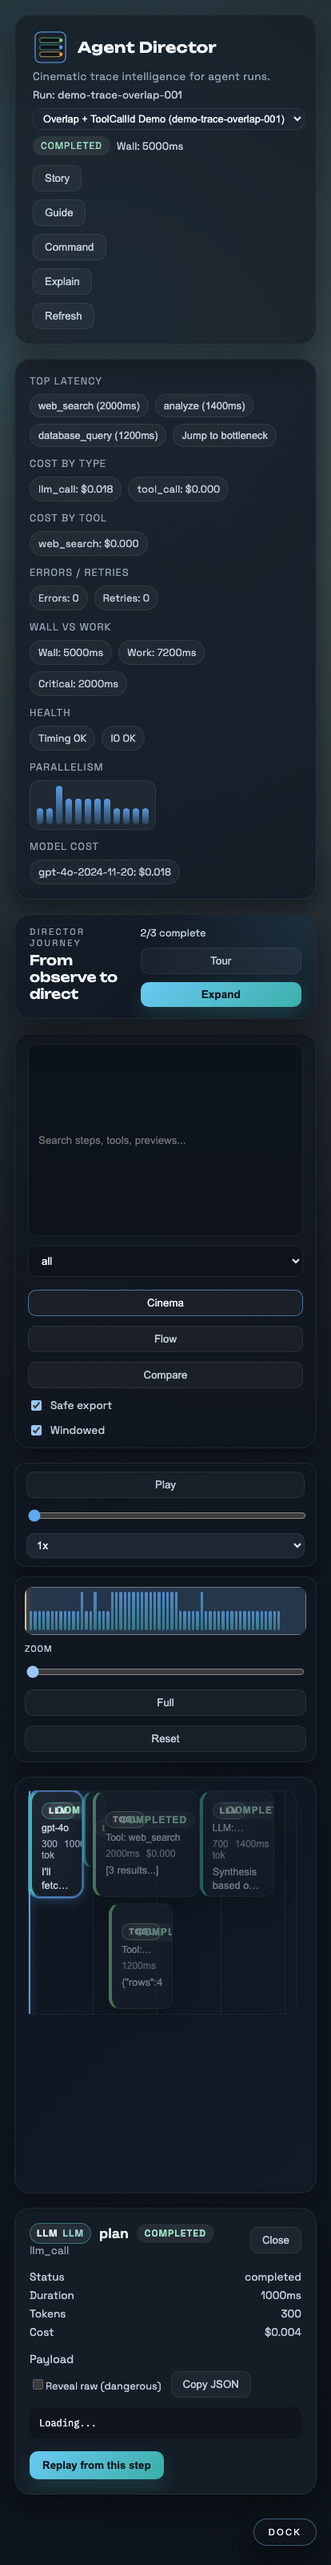
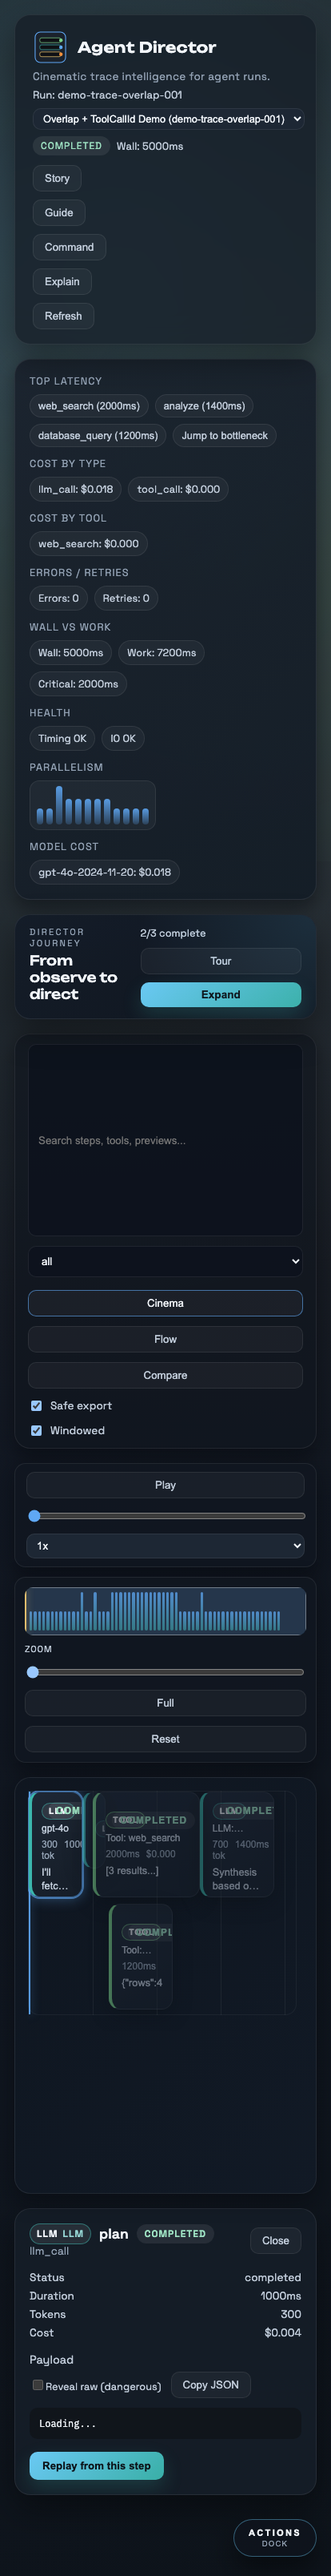
feat(ux): upgrade onboarding and explain overlays

diff --git a/ui/src/styles/main.css b/ui/src/styles/main.css
@@ -118,6 +118,7 @@ pre {
   border: 1px solid rgba(255, 255, 255, 0.12);
   box-shadow: 0 30px 80px rgba(0, 0, 0, 0.55);
   min-width: 320px;
+  width: min(520px, 90vw);
   text-align: center;
   overflow: hidden;
 }
@@ -134,6 +135,40 @@ pre {
   margin-bottom: 18px;
   color: var(--text-secondary);
   font-size: 0.95rem;
+}
+
+.intro-steps {
+  display: grid;
+  gap: 10px;
+  text-align: left;
+  margin-bottom: 18px;
+}
+
+.intro-step {
+  padding: 10px 12px;
+  border-radius: var(--radius-sm);
+  background: rgba(20, 30, 42, 0.6);
+  border: 1px solid rgba(111, 210, 255, 0.12);
+}
+
+.intro-step-label {
+  font-size: 0.75rem;
+  text-transform: uppercase;
+  letter-spacing: 0.2em;
+  color: var(--text-muted);
+  margin-bottom: 4px;
+}
+
+.intro-step-body {
+  font-size: 0.85rem;
+  color: var(--text-secondary);
+}
+
+.intro-actions {
+  display: flex;
+  justify-content: center;
+  gap: 12px;
+  flex-wrap: wrap;
 }
 
 .intro-grid {
@@ -1680,6 +1715,10 @@ pre {
   position: fixed;
   right: 24px;
   bottom: 24px;
+  display: flex;
+  flex-direction: column;
+  align-items: center;
+  gap: 2px;
   padding: 10px 18px;
   border-radius: 999px;
   border: 1px solid rgba(111, 210, 255, 0.4);
@@ -1692,6 +1731,16 @@ pre {
   box-shadow: 0 16px 32px rgba(0, 0, 0, 0.45);
   transition: transform var(--transition-fast), border-color var(--transition-fast), box-shadow var(--transition-fast);
   z-index: 40;
+}
+
+.quick-actions-toggle-label {
+  font-weight: 600;
+}
+
+.quick-actions-toggle-meta {
+  font-size: 0.6rem;
+  letter-spacing: 0.12em;
+  color: var(--text-muted);
 }
 
 .quick-actions-toggle:hover {
@@ -1885,6 +1934,41 @@ pre {
   color: var(--text-secondary);
 }
 
+.help-bubble::before {
+  content: '';
+  position: absolute;
+  width: 12px;
+  height: 12px;
+  background: rgba(16, 22, 32, 0.95);
+  border-left: 1px solid var(--border-strong);
+  border-top: 1px solid var(--border-strong);
+  transform: rotate(45deg);
+}
+
+.help-bubble[data-placement='left']::before {
+  right: -6px;
+  top: 50%;
+  transform: translateY(-50%) rotate(45deg);
+}
+
+.help-bubble[data-placement='right']::before {
+  left: -6px;
+  top: 50%;
+  transform: translateY(-50%) rotate(45deg);
+}
+
+.help-bubble[data-placement='top']::before {
+  bottom: -6px;
+  left: 50%;
+  transform: translateX(-50%) rotate(45deg);
+}
+
+.help-bubble[data-placement='bottom']::before {
+  top: -6px;
+  left: 50%;
+  transform: translateX(-50%) rotate(45deg);
+}
+
 .help-title {
   font-family: var(--font-display);
   font-size: 0.9rem;
@@ -1952,7 +2036,8 @@ pre {
 .playback-speed:focus-visible,
 .toggle input:focus-visible,
 .palette-input:focus-visible,
-.quick-action:focus-visible {
+.quick-action:focus-visible,
+.quick-actions-toggle:focus-visible {
   outline: 2px solid rgba(96, 168, 245, 0.8);
   outline-offset: 2px;
 }

diff --git a/ui/src/components/common/IntroOverlay.tsx b/ui/src/components/common/IntroOverlay.tsx
@@ -1,16 +1,22 @@
 import { useEffect } from 'react';
 
-const INTRO_MS = 1800;
+const INTRO_MS = 2800;
 
 type IntroOverlayProps = {
   onComplete: () => void;
+  onStartTour?: () => void;
 };
 
-export default function IntroOverlay({ onComplete }: IntroOverlayProps) {
+export default function IntroOverlay({ onComplete, onStartTour }: IntroOverlayProps) {
   useEffect(() => {
     const timer = window.setTimeout(() => onComplete(), INTRO_MS);
     return () => window.clearTimeout(timer);
   }, [onComplete]);
+
+  const handleStartTour = () => {
+    onStartTour?.();
+    onComplete();
+  };
 
   return (
     <div className="intro-overlay" role="dialog" aria-modal="true" aria-label="Agent Director intro">
@@ -18,15 +24,34 @@ export default function IntroOverlay({ onComplete }: IntroOverlayProps) {
         <div className="intro-scan" />
         <div className="intro-title">Agent Director</div>
         <div className="intro-tagline">Watch your agent think. Then direct it.</div>
+        <div className="intro-steps">
+          <div className="intro-step">
+            <div className="intro-step-label">Observe</div>
+            <div className="intro-step-body">Scrub the timeline to feel pacing and parallelism.</div>
+          </div>
+          <div className="intro-step">
+            <div className="intro-step-label">Inspect</div>
+            <div className="intro-step-body">Open the bottleneck to read payloads and costs.</div>
+          </div>
+          <div className="intro-step">
+            <div className="intro-step-label">Direct</div>
+            <div className="intro-step-body">Replay from a decisive step and compare runs.</div>
+          </div>
+        </div>
         <div className="intro-grid">
           <span />
           <span />
           <span />
           <span />
         </div>
-        <button className="ghost-button" type="button" onClick={onComplete}>
-          Skip intro
-        </button>
+        <div className="intro-actions">
+          <button className="primary-button" type="button" onClick={handleStartTour}>
+            Start guided tour
+          </button>
+          <button className="ghost-button" type="button" onClick={onComplete}>
+            Skip intro
+          </button>
+        </div>
       </div>
     </div>
   );

diff --git a/ui/src/App.tsx b/ui/src/App.tsx
@@ -842,7 +842,15 @@ export default function App() {
         explainMode={explainMode}
         storyActive={storyActive}
       />
-      {!introDismissed && !skipIntro ? <IntroOverlay onComplete={() => setIntroDismissed(true)} /> : null}
+      {!introDismissed && !skipIntro ? (
+        <IntroOverlay
+          onComplete={() => setIntroDismissed(true)}
+          onStartTour={() => {
+            setIntroDismissed(true);
+            setTourOpen(true);
+          }}
+        />
+      ) : null}
       <GuidedTour
         steps={tourSteps}
         open={tourOpen}

diff --git a/ui/src/components/common/ContextHelpOverlay.tsx b/ui/src/components/common/ContextHelpOverlay.tsx
@@ -148,7 +148,12 @@ export default function ContextHelpOverlay({ enabled }: ContextHelpOverlayProps)
           height: active.rect.height + 12,
         }}
       />
-      <div className="help-bubble" ref={bubbleRef} style={bubblePos ?? undefined}>
+      <div
+        className="help-bubble"
+        ref={bubbleRef}
+        style={bubblePos ?? undefined}
+        data-placement={active.placement}
+      >
         <div className="help-title">{active.title}</div>
         <div className="help-body">{active.body}</div>
       </div>

diff --git a/ui/src/components/common/QuickActions.tsx b/ui/src/components/common/QuickActions.tsx
@@ -53,7 +53,8 @@ export default function QuickActions({
         data-help-body="Open the dock to access demos, shortcuts, and instant actions."
         data-help-placement="left"
       >
-        Dock
+        <span className="quick-actions-toggle-label">Actions</span>
+        <span className="quick-actions-toggle-meta">Dock</span>
       </button>
     );
   }

diff --git a/README.md b/README.md
@@ -25,11 +25,12 @@ Agent Director is a cinematic, chat-native trace debugger for AI agents. It turn
 - Director’s Cut replay with deterministic invalidation + provenance
 - Compare mode with stable alignment, ghost overlays, and diff export
 - Insight Strip with critical path, concurrency heatmap, and IO/timing warnings
-- Story Mode autopilot, quick actions rail, and command palette for instant demos
+- Story Mode autopilot, quick actions dock, and command palette for instant demos
+- Explain mode contextual overlays + guided tour for zero-guess onboarding
 - CI + strict verification gates with mutation testing
 
 ## Quick demo (90 seconds)
-1. Hit Story mode to auto-run the guided walkthrough.
+1. Start the guided tour (from the intro overlay or Guide button), or hit Story mode to auto-run.
 2. Pause at any point and take over manually.
 3. Load the latest run and hit Play to show timeline playback.
 4. Click a slow step to open the inspector and reveal redacted payloads.

diff --git a/docs/ux.md b/docs/ux.md
@@ -16,7 +16,22 @@
 ## Story mode + command palette
 - **Story mode** auto-runs a guided walkthrough for demos and onboarding.
 - **Command palette** (Cmd/Ctrl + K) exposes every action, mode, and safety toggle.
-- **Quick actions rail** keeps critical controls within reach during live demos.
+- **Quick actions dock** keeps critical controls within reach during live demos (and can collapse to a single button).
+- **Explain mode** adds contextual callouts on hover for every major control.
+
+## Onboarding stack
+1. **Intro overlay** sets the three-act mental model (Observe → Inspect → Direct).
+2. **Guided tour** highlights the main controls in order.
+3. **Explain mode** offers just-in-time help on any element.
+4. **Story mode** runs the full demo hands-free.
+
+```mermaid
+flowchart LR
+  A[Intro overlay] --> B[Guided tour]
+  B --> C[Explain mode]
+  C --> D[Story mode]
+  D --> E[Hands-on exploration]
+```
 
 ## Keyboard shortcuts
 - `Space` — Play / pause

diff --git a/docs/visual-system.md b/docs/visual-system.md
@@ -23,4 +23,5 @@ Agent Director’s visuals map directly to the agent’s behavior.
 - Heavy contrast for legibility in dense traces.
 - Use focus glows to guide attention (never rely on color alone).
 - Keep the Insight Strip at the top to provide instant narrative context.
-- A floating Quick Actions rail keeps demo-critical controls within reach.
+- A floating Quick Actions dock keeps demo-critical controls within reach.
+- Explain overlays use a consistent glow + arrowed callout to teach without clutter.

diff --git a/docs/demo-script.md b/docs/demo-script.md
@@ -2,7 +2,7 @@
 
 ## Scene 1 — “Show me the run” (0:00–0:15)
 **Narration:** “This is Agent Director. It’s a cinematic, chat-native debugger for AI agents.”
-- Optional: hit **Story mode** to auto-run the walkthrough, then pause to take over.
+- Optional: start the **Guided Tour** from the intro overlay or hit **Story mode** to auto-run the walkthrough, then pause to take over.
 - Load the latest trace.
 - Hit Play; point out wall-clock accuracy and overlap lanes.
 

diff --git a/docs/story.md b/docs/story.md
@@ -31,6 +31,8 @@ Agent Director turns traces into a film strip you can scrub, inspect, and replay
 ## The demo accelerants
 - **Story mode** auto-runs the narrative for instant demos.
 - **Command palette** exposes every action in two keystrokes.
+- **Intro overlay + guided tour** give first-time viewers a perfect runway.
+- **Explain mode** offers contextual callouts without training docs.
 
 ## Storyboard (ASCII)
 ```
